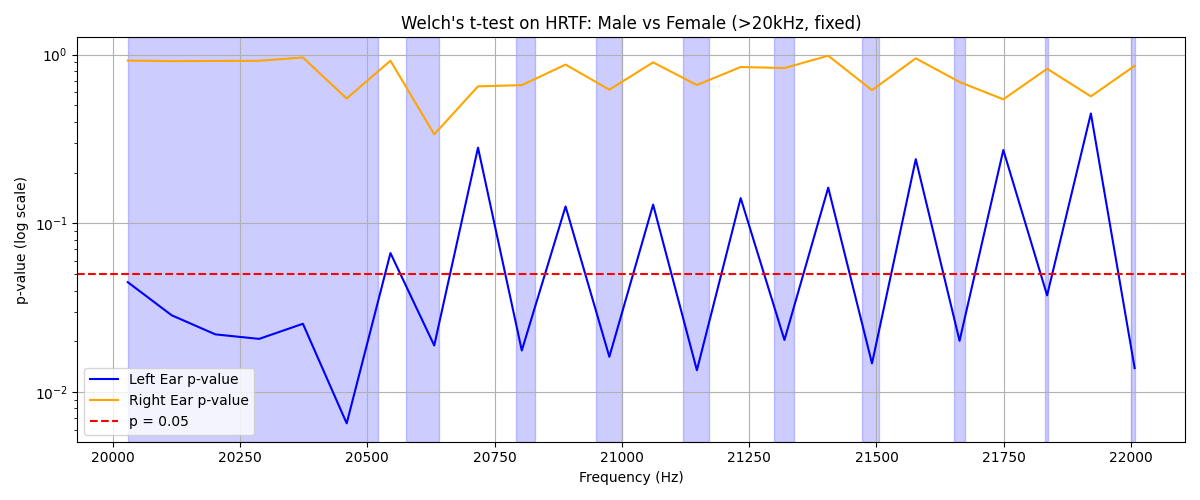
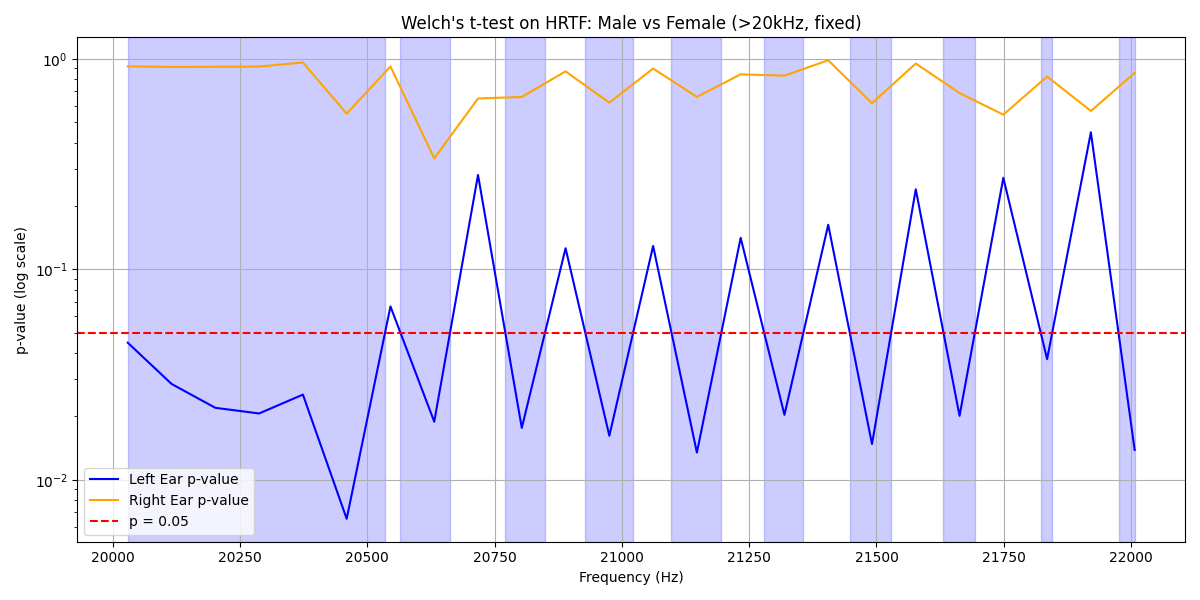
高亮区域全部对齐

Changed region(s): [[0.0, 0.03, 0.9867, 0.99]]

diff --git a/test.py b/test.py
@@ -1,12 +1,12 @@
-# ====== 1. 导入库 ======
 import os
 import numpy as np
 import pandas as pd
 import matplotlib.pyplot as plt
 from scipy.stats import ttest_ind
-import sofar as sf  # 用于读取 SOFA 文件
+from scipy.interpolate import interp1d
+import sofar as sf
 
-# ====== 2. 加载 SOFA 中的 HRTF 并取目标方向的 FFT ======
+# ====== 读取 HRTF 并做 FFT ======
 def load_hrtf_fft_binaural(directory):
     left_list, right_list = [], []
     for fname in os.listdir(directory):
@@ -16,7 +16,7 @@ def load_hrtf_fft_binaural(directory):
             sofa = sf.read_sofa(os.path.join(directory, fname), verify=False)
             ir = sofa.Data_IR
             pos = sofa.SourcePosition
-            idx = np.argmin(np.linalg.norm(pos - np.array([0, 0, 1]), axis=1))  # 找正前方方向
+            idx = np.argmin(np.linalg.norm(pos - np.array([0, 0, 1]), axis=1))
             left = np.abs(np.fft.rfft(ir[idx, 0, :]))
             right = np.abs(np.fft.rfft(ir[idx, 1, :]))
             left_list.append(left)
@@ -25,110 +25,54 @@ def load_hrtf_fft_binaural(directory):
             print(f"Error reading {fname}: {e}")
     return np.array(left_list), np.array(right_list)
 
-# ====== 3. 提取 p < threshold 的频率区间，包含边界插值 ======
-def extract_regions_all_fixed(freqs, p_vals, threshold=0.05):
-    below = p_vals < threshold
+# ====== 提取显著区域（p < 0.05，log空间插值）======
+def extract_regions_logspace(freqs, p_vals, threshold=0.05, resolution=10000):
+    log_p = np.log10(p_vals)
+    f_interp = np.linspace(freqs.min(), freqs.max(), resolution)
+    log_interp_func = interp1d(freqs, log_p, kind='linear', fill_value='extrapolate')
+    log_vals_interp = log_interp_func(f_interp)
+    below = log_vals_interp < np.log10(threshold)
+
     regions = []
     in_region = False
-    start_freq = None
 
-    for i in range(1, len(freqs)):
+    for i in range(1, len(f_interp)):
         if i == 1 and below[0]:
-            start_freq = freqs[0]
+            start_f = f_interp[0]
             in_region = True
-        elif below[i] and not below[i-1]:
-            f0, f1 = freqs[i-1], freqs[i]
-            p0, p1 = p_vals[i-1], p_vals[i]
-            start_freq = f0 + (threshold - p0) * (f1 - f0) / (p1 - p0)
+        elif below[i] and not below[i - 1]:
+            start_f = f_interp[i - 1] + (np.log10(threshold) - log_vals_interp[i - 1]) * (f_interp[i] - f_interp[i - 1]) / (log_vals_interp[i] - log_vals_interp[i - 1])
             in_region = True
-        elif not below[i] and below[i-1] and in_region:
-            f0, f1 = freqs[i-1], freqs[i]
-            p0, p1 = p_vals[i-1], p_vals[i]
-            end_freq = f0 + (threshold - p0) * (f1 - f0) / (p1 - p0)
-            regions.append((start_freq, end_freq))
+        elif not below[i] and below[i - 1] and in_region:
+            end_f = f_interp[i - 1] + (np.log10(threshold) - log_vals_interp[i - 1]) * (f_interp[i] - f_interp[i - 1]) / (log_vals_interp[i] - log_vals_interp[i - 1])
+            regions.append((start_f, end_f))
             in_region = False
-
-    if in_region and start_freq is not None:
-        regions.append((start_freq, freqs[-1]))
+    if in_region:
+        regions.append((start_f, f_interp[-1]))
     return regions
 
-# ====== 4. 加载男女 HRTF 数据 ======
-female_left, female_right = load_hrtf_fft_binaural('./female')
-male_left,   male_right   = load_hrtf_fft_binaural('./male')
+# ====== 绘图函数 ======
+def plot_with_regions(freqs, pL, pR, regions_L, regions_R, title, filename):
+    plt.figure(figsize=(12, 6))
+    plt.plot(freqs, pL, label="Left Ear p-value", color="blue")
+    plt.plot(freqs, pR, label="Right Ear p-value", color="orange")
+    plt.axhline(0.05, color='red', linestyle='--', label="p = 0.05")
+    for start, end in regions_L:
+        plt.axvspan(start, end, color='blue', alpha=0.2)
+    for start, end in regions_R:
+        plt.axvspan(start, end, color='orange', alpha=0.2)
+    plt.yscale('log')
+    plt.xlabel("Frequency (Hz)")
+    plt.ylabel("p-value (log scale)")
+    plt.title(title)
+    plt.grid(True)
+    plt.legend()
+    plt.tight_layout()
+    plt.savefig(filename)
+    plt.show()
+    print(f"✔ Plot saved: {filename}")
 
-# ====== 5. Welch's t-test 比较男女之间的 HRTF 差异 ======
-tL, pL = ttest_ind(male_left, female_left, axis=0, equal_var=False)
-tR, pR = ttest_ind(male_right, female_right, axis=0, equal_var=False)
-
-# ====== 6. 构建频率轴，并区分低频（≤20kHz）与高频（>20kHz） ======
-n, fs = female_left.shape[1], 44100
-freqs = np.fft.rfftfreq(n * 2 - 1, d=1/fs)
-low_mask = freqs <= 20000
-high_mask = freqs > 20000
-
-freqs_low, freqs_high = freqs[low_mask], freqs[high_mask]
-pL_low, pR_low = pL[low_mask], pR[low_mask]
-pL_high, pR_high = pL[high_mask], pR[high_mask]
-
-# ====== 7. 提取显著性频率区间 ======
-regions_L_low = extract_regions_all_fixed(freqs_low, pL_low)
-regions_R_low = extract_regions_all_fixed(freqs_low, pR_low)
-regions_L_high = extract_regions_all_fixed(freqs_high, pL_high)
-regions_R_high = extract_regions_all_fixed(freqs_high, pR_high)
-
-# ====== 8. 存储所有区间到 CSV 文件 ======
-all_L = regions_L_low + regions_L_high
-all_R = regions_R_low + regions_R_high
-max_len = max(len(all_L), len(all_R))
-
-df = pd.DataFrame({
-    "Left Ear Start (Hz)": [r[0] for r in all_L] + [None] * (max_len - len(all_L)),
-    "Left Ear End (Hz)":   [r[1] for r in all_L] + [None] * (max_len - len(all_L)),
-    "Right Ear Start (Hz)": [r[0] for r in all_R] + [None] * (max_len - len(all_R)),
-    "Right Ear End (Hz)":   [r[1] for r in all_R] + [None] * (max_len - len(all_R))
-})
-df.to_csv("pvalue_regions_fixed.csv", index=False)
-print("✔ CSV saved to: pvalue_regions_fixed.csv")
-
-# ====== 9. 绘制低频区间 p 值曲线并高亮显著频段 ======
-plt.figure(figsize=(12, 6))
-plt.plot(freqs_low, pL_low, label="Left Ear p-value", color="blue")
-plt.plot(freqs_low, pR_low, label="Right Ear p-value", color="orange")
-plt.axhline(0.05, color='red', linestyle='--', label="p = 0.05")
-for start, end in regions_L_low:
-    plt.axvspan(start, end, color='blue', alpha=0.2)
-for start, end in regions_R_low:
-    plt.axvspan(start, end, color='orange', alpha=0.2)
-plt.yscale('log')
-plt.xlabel("Frequency (Hz)")
-plt.ylabel("p-value (log scale)")
-plt.title("Welch's t-test on HRTF: Male vs Female (≤20kHz, fixed)")
-plt.legend()
-plt.grid(True)
-plt.tight_layout()
-plt.savefig("pvalue_plot_low_fixed.png")
-plt.show()
-
-# ====== 10. 高频段绘图 ======
-plt.figure(figsize=(12, 5))
-plt.plot(freqs_high, pL_high, label="Left Ear p-value", color="blue")
-plt.plot(freqs_high, pR_high, label="Right Ear p-value", color="orange")
-plt.axhline(0.05, color='red', linestyle='--', label="p = 0.05")
-for start, end in regions_L_high:
-    plt.axvspan(start, end, color='blue', alpha=0.2)
-for start, end in regions_R_high:
-    plt.axvspan(start, end, color='orange', alpha=0.2)
-plt.yscale('log')
-plt.xlabel("Frequency (Hz)")
-plt.ylabel("p-value (log scale)")
-plt.title("Welch's t-test on HRTF: Male vs Female (>20kHz, fixed)")
-plt.legend()
-plt.grid(True)
-plt.tight_layout()
-plt.savefig("pvalue_plot_high_fixed.png")
-plt.show()
-
-# ====== 11. CSV 表格转为图片输出 ======
+# ====== 保存 CSV 为图片（带序号） ======
 def save_csv_as_image(csv_path, output_image_path):
     df = pd.read_csv(csv_path)
     fig, ax = plt.subplots(figsize=(10, len(df) * 0.4 + 1))
@@ -142,8 +86,57 @@ def save_csv_as_image(csv_path, output_image_path):
     table.scale(1, 1.5)
     plt.tight_layout()
     plt.savefig(output_image_path, dpi=300)
-    print(f"✔ Table image saved to: {output_image_path}")
     plt.show()
+    print(f"✔ Table image saved to: {output_image_path}")
 
-# 保存为图片
+# ====== 主流程 ======
+# 1. 加载数据
+female_left, female_right = load_hrtf_fft_binaural('./female')
+male_left,   male_right   = load_hrtf_fft_binaural('./male')
+
+# 2. Welch's t-test
+tL, pL = ttest_ind(male_left, female_left, axis=0, equal_var=False)
+tR, pR = ttest_ind(male_right, female_right, axis=0, equal_var=False)
+
+# 3. 构建频率轴
+n, fs = female_left.shape[1], 44100
+freqs = np.fft.rfftfreq(n * 2 - 1, d=1 / fs)
+low_mask = freqs <= 20000
+high_mask = freqs > 20000
+
+freqs_low, freqs_high = freqs[low_mask], freqs[high_mask]
+pL_low, pR_low = pL[low_mask], pR[low_mask]
+pL_high, pR_high = pL[high_mask], pR[high_mask]
+
+# 4. 提取显著区域（左右耳）
+regions_L_low = extract_regions_logspace(freqs_low, pL_low)
+regions_L_high = extract_regions_logspace(freqs_high, pL_high)
+regions_R_low = extract_regions_logspace(freqs_low, pR_low)
+regions_R_high = extract_regions_logspace(freqs_high, pR_high)
+
+# 5. 保存 CSV（包含序号）
+all_L = regions_L_low + regions_L_high
+all_R = regions_R_low + regions_R_high
+max_len = max(len(all_L), len(all_R))
+
+df = pd.DataFrame({
+    "Left Ear Start (Hz)":  [r[0] for r in all_L] + [None] * (max_len - len(all_L)),
+    "Left Ear End (Hz)":    [r[1] for r in all_L] + [None] * (max_len - len(all_L)),
+    "Right Ear Start (Hz)": [r[0] for r in all_R] + [None] * (max_len - len(all_R)),
+    "Right Ear End (Hz)":   [r[1] for r in all_R] + [None] * (max_len - len(all_R))
+})
+df.insert(0, "Index", pd.Series(range(1, len(df) + 1), dtype="Int64"))
+df.to_csv("pvalue_regions_fixed.csv", index=False)
+print("✔ CSV saved to: pvalue_regions_fixed.csv")
+
+# 6. 绘图
+plot_with_regions(freqs_low, pL_low, pR_low, regions_L_low, regions_R_low,
+                  "Welch's t-test on HRTF: Male vs Female (≤20kHz, fixed)",
+                  "pvalue_plot_low_fixed.png")
+
+plot_with_regions(freqs_high, pL_high, pR_high, regions_L_high, regions_R_high,
+                  "Welch's t-test on HRTF: Male vs Female (>20kHz, fixed)",
+                  "pvalue_plot_high_fixed.png")
+
+# 7. CSV 表格转图片
 save_csv_as_image("pvalue_regions_fixed.csv", "pvalue_regions_fixed_table.png")
